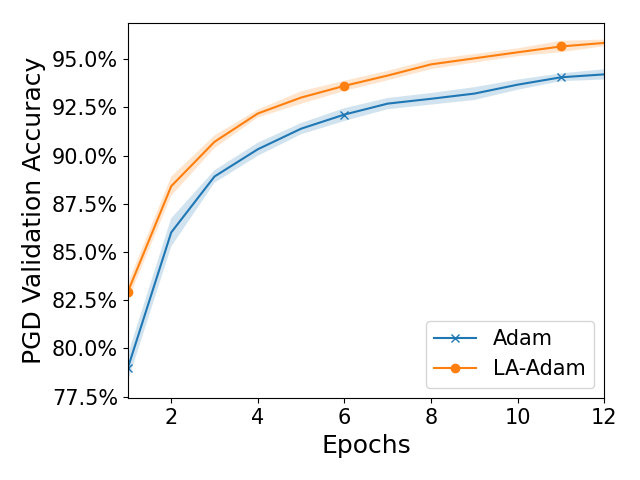
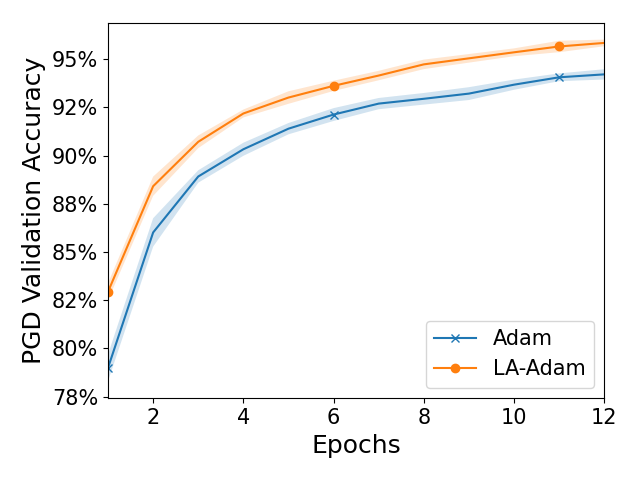
reformat y axis

diff --git a/results/result_eval.py b/results/result_eval.py
@@ -2,7 +2,7 @@ import pandas as pd
 import matplotlib.pyplot as plt
 import numpy as np
 import os
-import matplotlib.ticker as mtick
+from matplotlib.ticker import FuncFormatter
 import matplotlib
 from pathlib import Path
 from Utils.visualization_utils import tsplot
@@ -48,7 +48,7 @@ def plot_avg_valid_results():
         ax.set_ylabel('{} Validation Accuracy'.format(attack.upper()) if attack is not None else "Validation Accuracy",
                       fontsize=18)
         # ax.set_ylim(0, 1.1)
-        ax.yaxis.set_major_formatter(mtick.PercentFormatter(1.0))
+        ax.yaxis.set_major_formatter(FuncFormatter(lambda y, _: '{:.0%}'.format(y)))
         font = {'size': 15}
         matplotlib.rc('font', **font)
         matplotlib.pyplot.tight_layout()
